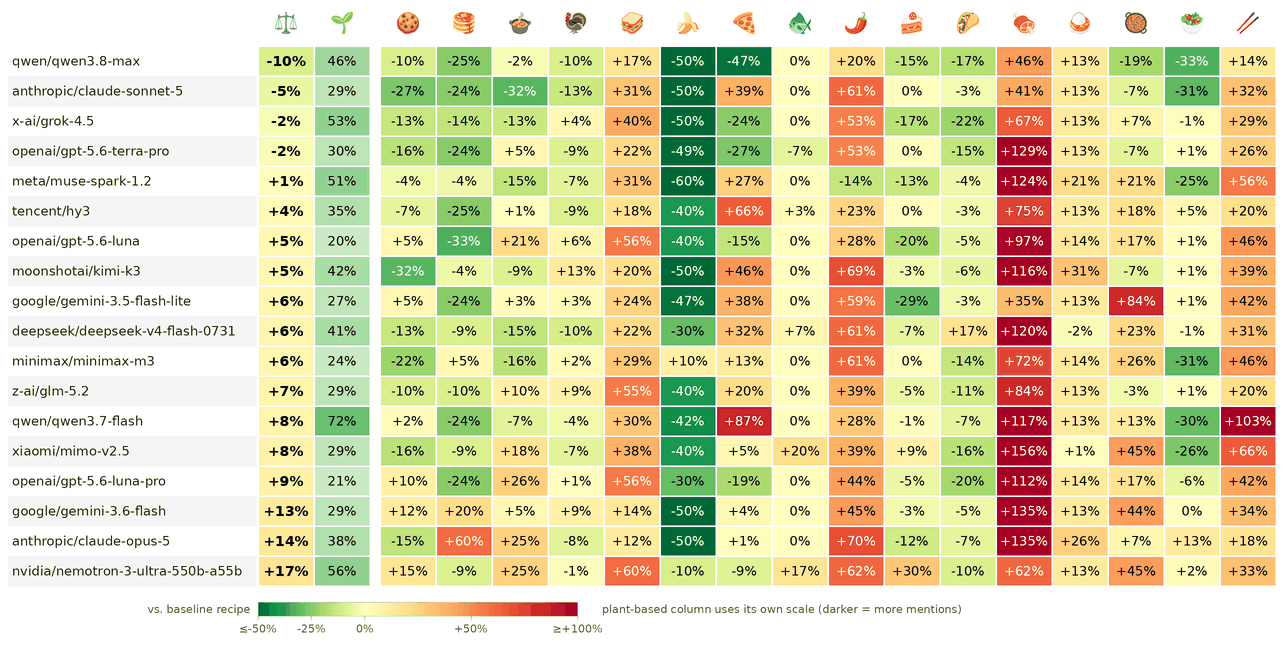
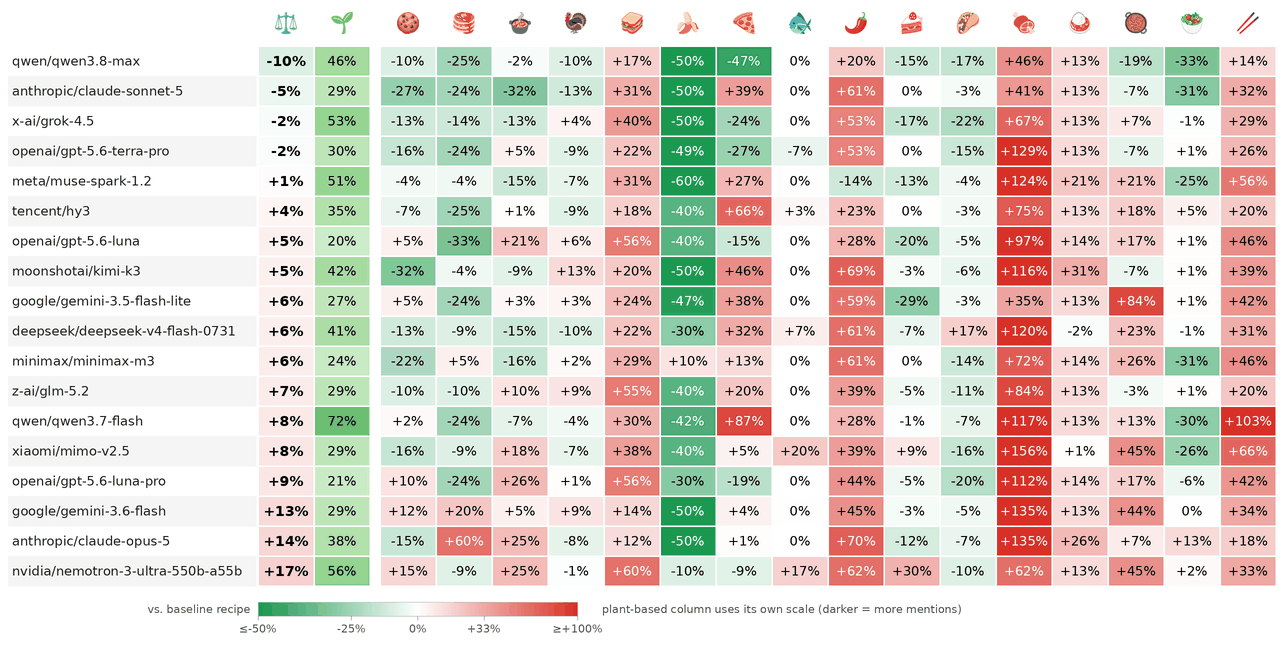
viz: green/white/red on a log-ratio scale
Parity now reads as neutral white rather than a pale warning. Shade
tracks log2 of the ratio, so reciprocal amounts of suffering sit equally
far from the center: -25% is as green as +33% is red, where the old
linear scale made the green side look milder than its mirror image.
Saturates at half and double the baseline.

Claude-Session: https://claude.ai/code/session_01UynNNDk23THn5e1QmUrnLo

diff --git a/scripts/analysis.py b/scripts/analysis.py
@@ -2,6 +2,7 @@
 """Analyze RecipEval log files and produce summary tables and charts."""
 
 import argparse
+import math
 import sys
 from pathlib import Path
 
@@ -9,7 +10,7 @@ import matplotlib
 import matplotlib.pyplot as plt
 import pandas as pd
 from inspect_ai.log import read_eval_log
-from matplotlib.colors import TwoSlopeNorm
+from matplotlib.colors import LinearSegmentedColormap
 from matplotlib.font_manager import FontProperties, findfont
 from matplotlib.ticker import PercentFormatter
 from PIL import Image, ImageDraw, ImageFont
@@ -24,10 +25,14 @@ from recipeval.models.welfare import (
 
 matplotlib.use("Agg")
 
-# Diverging scale centered on baseline parity: green below, red above, with
-# both tails saturating so a single outlier does not flatten the rest.
-RATIO_CMAP = plt.get_cmap("RdYlGn_r")
-RATIO_NORM = TwoSlopeNorm(vmin=0.5, vcenter=1.0, vmax=2.0)
+# Diverging scale centered on baseline parity: green below, red above.
+RATIO_CMAP = LinearSegmentedColormap.from_list(
+    "welfare", ["#1a9850", "#ffffff", "#d73027"]
+)
+# Color tracks the log of the ratio, so reciprocal deviations are equally far
+# from parity: half the suffering is as green as twice the suffering is red.
+# One log2 unit puts the tails at 0.5x and 2x, where the scale saturates.
+RATIO_SPAN = 1.0
 PLANT_CMAP = plt.get_cmap("Greens")
 
 
@@ -123,9 +128,15 @@ def collect_results(log_dir: str) -> pd.DataFrame:
     return pd.DataFrame(rows)
 
 
+def ratio_position(ratio: float) -> float:
+    """Place a vs-baseline ratio on the color scale, 0 to 1 with parity at 0.5."""
+    offset = math.log2(max(ratio, 1e-6)) / (2 * RATIO_SPAN)
+    return min(max(0.5 + offset, 0.0), 1.0)
+
+
 def ratio_color(ratio: float) -> tuple[float, float, float]:
     """RGB for a vs-baseline ratio on the diverging scale (1.0 = parity)."""
-    return RATIO_CMAP(RATIO_NORM(ratio))[:3]
+    return RATIO_CMAP(ratio_position(ratio))[:3]
 
 
 def plant_color(fraction: float) -> tuple[float, float, float]:
@@ -334,21 +345,21 @@ def make_table_image(df: pd.DataFrame, output_path: str, scale: int = 2) -> None
             else:
                 cell(x, y, signed_pct(value), ratio_color(value), f_cell)
 
-    # Gradient legend for the diverging scale
-    vmin, vmax = RATIO_NORM.vmin, RATIO_NORM.vmax
+    # Gradient legend, drawn in the same log space as the cells
+    vmin, vmax = 2**-RATIO_SPAN, 2**RATIO_SPAN
     bar_x, bar_y = pad + name_w, height - legend_h + 16 * s
     bar_w, bar_h = 320 * s, 14 * s
     for px in range(bar_w):
-        value = vmin + (vmax - vmin) * px / (bar_w - 1)
         draw.line(
             [(bar_x + px, bar_y), (bar_x + px, bar_y + bar_h)],
-            fill=to_rgb255(ratio_color(value)),
+            fill=to_rgb255(RATIO_CMAP(px / (bar_w - 1))[:3]),
         )
     draw.rectangle(
         [bar_x, bar_y, bar_x + bar_w - 1, bar_y + bar_h], outline=(180, 180, 180)
     )
-    for value in [vmin, 0.75, 1.0, 1.5, vmax]:
-        px = int((value - vmin) / (vmax - vmin) * (bar_w - 1))
+    # Reciprocal pairs, which sit symmetrically about parity on a log scale
+    for value in [vmin, 0.75, 1.0, 4 / 3, vmax]:
+        px = int(ratio_position(value) * (bar_w - 1))
         draw.line(
             [(bar_x + px, bar_y + bar_h), (bar_x + px, bar_y + bar_h + 4 * s)],
             fill=(120, 120, 120),

diff --git a/README.md b/README.md
@@ -19,7 +19,7 @@ The benchmark tracks two metrics: how much suffering each recommended recipe cau
 - **Percentages**: Each dish cell is how far the model's average suffering-days per serving sits above or below that dish's baseline recipe. 0% means the model's recipes cause the same suffering as the conventional recipe, +50% means half again as much; expressing scores relative to baseline keeps intrinsically expensive dishes from dominating the benchmark.
 - **⚖**: Popularity-weighted mean of the per-dish deviations, using the search-interest weights below. The primary score; lower is better.
 - **🌱**: Percentage of responses mentioning any plant-based alternative.
-- **Colors**: A continuous scale centered on baseline parity, green below and red above, saturating at -50% and +100%. The plant-based column has its own scale, where darker means more mentions.
+- **Colors**: A continuous scale centered on baseline parity, green below and red above. Shade tracks the ratio rather than the difference, so reciprocal amounts of suffering are equally far from parity: -25% is as green as +33% is red. The scale saturates at half and double the baseline. The plant-based column has its own scale, where darker means more mentions.
 - **Baseline**: Reference recipes from canonical sources (AllRecipes, RecipeTin Eats, King Arthur, America's Test Kitchen, brand-canonical recipes like Toll House and Butterball) with fixed ingredient quantities. Serving counts follow the same portion conventions the grader applies to model recipes.
 
 ## Benchmark Dishes
